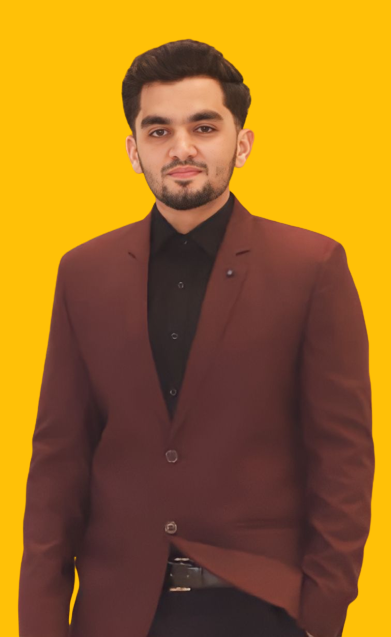
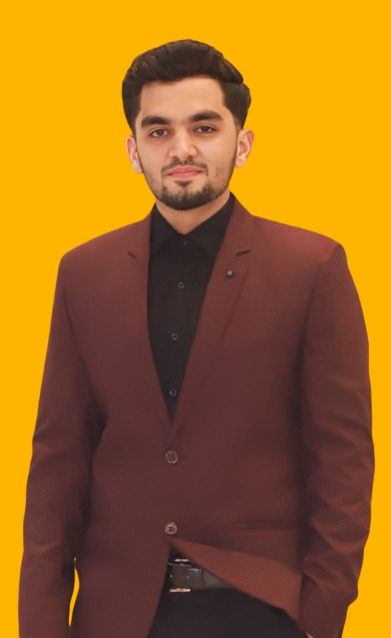
imgs changed

diff --git a/resources/views/LandingPage/welcome.blade.php b/resources/views/LandingPage/welcome.blade.php
@@ -59,7 +59,7 @@
         <div class="col-lg-4 bg position-fixed d-none d-lg-block"></div>
         <div class="col-12 col-lg-8 offset-lg-4 home-details text-left text-sm-center text-lg-left">
             <div>
-                <img src="{{ asset('assets/img/raheelanwaar.jpg') }}" class="img-fluid main-img-mobile d-none d-sm-block d-lg-none"
+                <img src="{{ asset('assets/img/raheelanwaar.png') }}" class="img-fluid main-img-mobile d-none d-sm-block d-lg-none"
                     alt="my picture" />
                 <h1 class="text-uppercase poppins-font">I'm Raheel Anwaar<span>Web Developer</span></h1>
                 <p class="open-sans-font">I'm a Professional back-end & front‑end developer focused on
